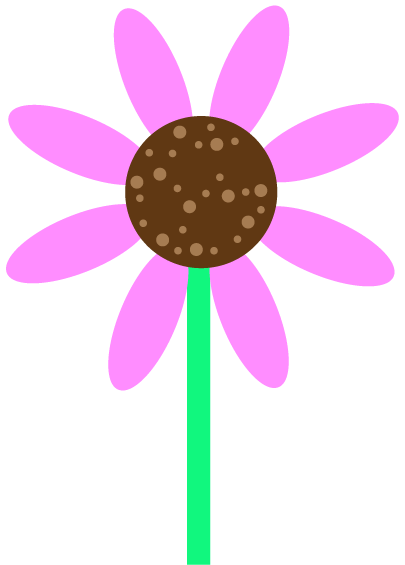
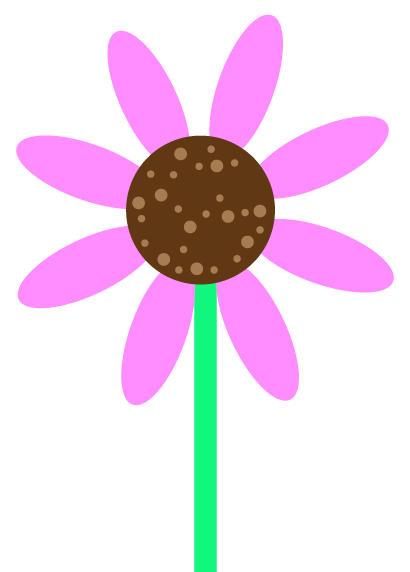
added way more stuff #slay

diff --git a/script.js b/script.js
@@ -1,10 +1,43 @@
-console.log("hello im here")
-
 let bumbleBee = document.getElementById('bumbleBee');
 
 const onMouseMove = (e) =>{
-    console.log("inside");
   bumbleBee.style.left = e.pageX + 'px';
   bumbleBee.style.top = e.pageY + 'px';
 }
 document.addEventListener('mousemove', onMouseMove);
+
+let titleText = document.getElementById('titleText');
+
+let orangeFlower = document.getElementById('orangeFlower');
+
+let orangeCounter = 0;
+let pinkCounter = 0;
+
+orangeFlower.addEventListener('click', () => {
+    orangeCounter++;
+    console.log("orange counter", orangeCounter);
+})
+
+let pinkFlower = document.getElementById('pinkFlower');
+
+pinkFlower.addEventListener('click', () => {
+    titleText.innerHTML = "PINK FLOWER CLICKED";
+    if(pinkCounter === 0) {
+        document.getElementById("pinkImg").src="pinkFlower2.png";
+    }
+    else if(pinkCounter === 1) {
+        document.getElementById("pinkImg").src="pinkFlower3.png";
+    }
+    else if(pinkCounter === 2) {
+        document.getElementById("pinkImg").src="pinkFlower4.png";
+    }
+    else if(pinkCounter === 3) {
+        document.getElementById("pinkImg").src="pinkFlower5.png";
+    }
+    pinkCounter++;
+    console.log("pink counter", pinkCounter);
+
+
+
+
+})

diff --git a/index.html b/index.html
@@ -13,11 +13,11 @@
         </div>
 
         <div id="orangeFlower">
-            <img src="orangeFlower.png" alt="Orange Flower">
+            <img id="orangeImg" src="orangeFlower.png" alt="Orange Flower">
         </div>
 
         <div id="pinkFlower">
-            <img src="pinkFlower.png" alt="Pink Flower">
+            <img id="pinkImg" src="pinkFlower.png" alt="Pink Flower">
         </div>
     </body>
 </html>

diff --git a/styles.css b/styles.css
@@ -32,4 +32,9 @@ div{
     #titleText {
         font-size: 1.5em;
     }
+
+    #pinkFlower {
+        width: 200px;
+        height: auto; 
+    }
 }
